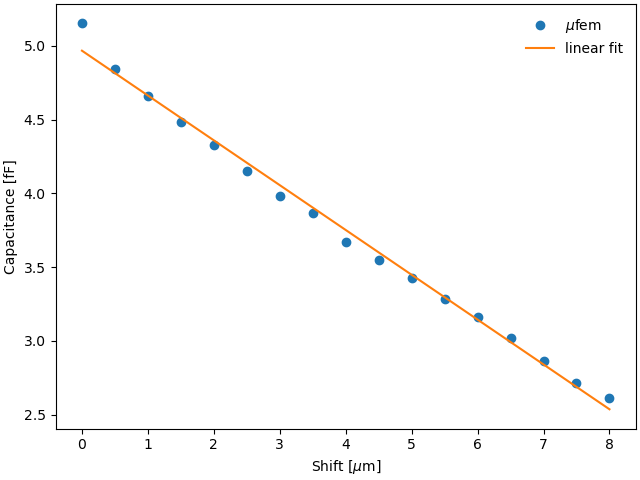
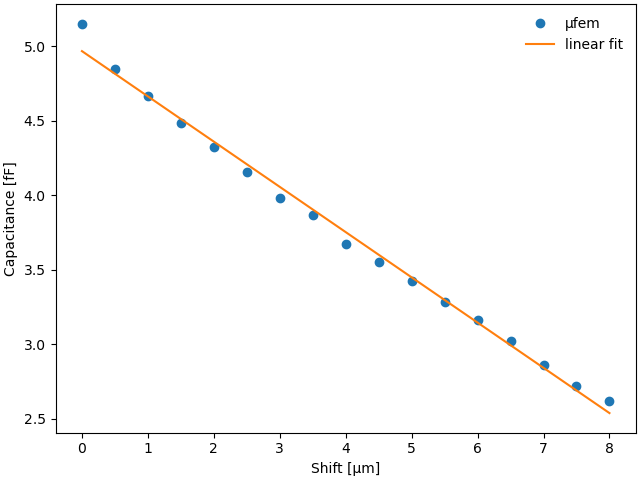
Minor changes

diff --git a/Electromagnetics/Ren_2014_MEMS_Comb_Drive/capacitance_vs_xshift.py b/Electromagnetics/Ren_2014_MEMS_Comb_Drive/capacitance_vs_xshift.py
@@ -30,7 +30,7 @@ print(f"Force F = {F} [N]")
 print(f"Force F = {F/1e-9} [nN]")
 
 plt.figure(constrained_layout=True)
-plt.plot(x / 1e-6, C / 1e-15, "o", label="$\\mu$fem")
+plt.plot(x / 1e-6, C / 1e-15, "o", label="μfem")
 plt.plot(x / 1e-6, (a * x + b) / 1e-15, "-", label="linear fit")
 plt.legend(loc=0, frameon=False)
 plt.xlabel("Shift [μm]")

diff --git a/Electromagnetics/Ren_2014_MEMS_Comb_Drive/case.py b/Electromagnetics/Ren_2014_MEMS_Comb_Drive/case.py
@@ -96,9 +96,6 @@ for ix, mesh_file in enumerate(mesh_files):
     sim.get_domain().load_mesh(mesh_file)
     sim.get_domain().get_mesh().scale(1e-6)
 
-    ncells = np.array([])
-    energies = np.array([])
-
     for i in range(max_iterations):
         runner.advance(2)
 
